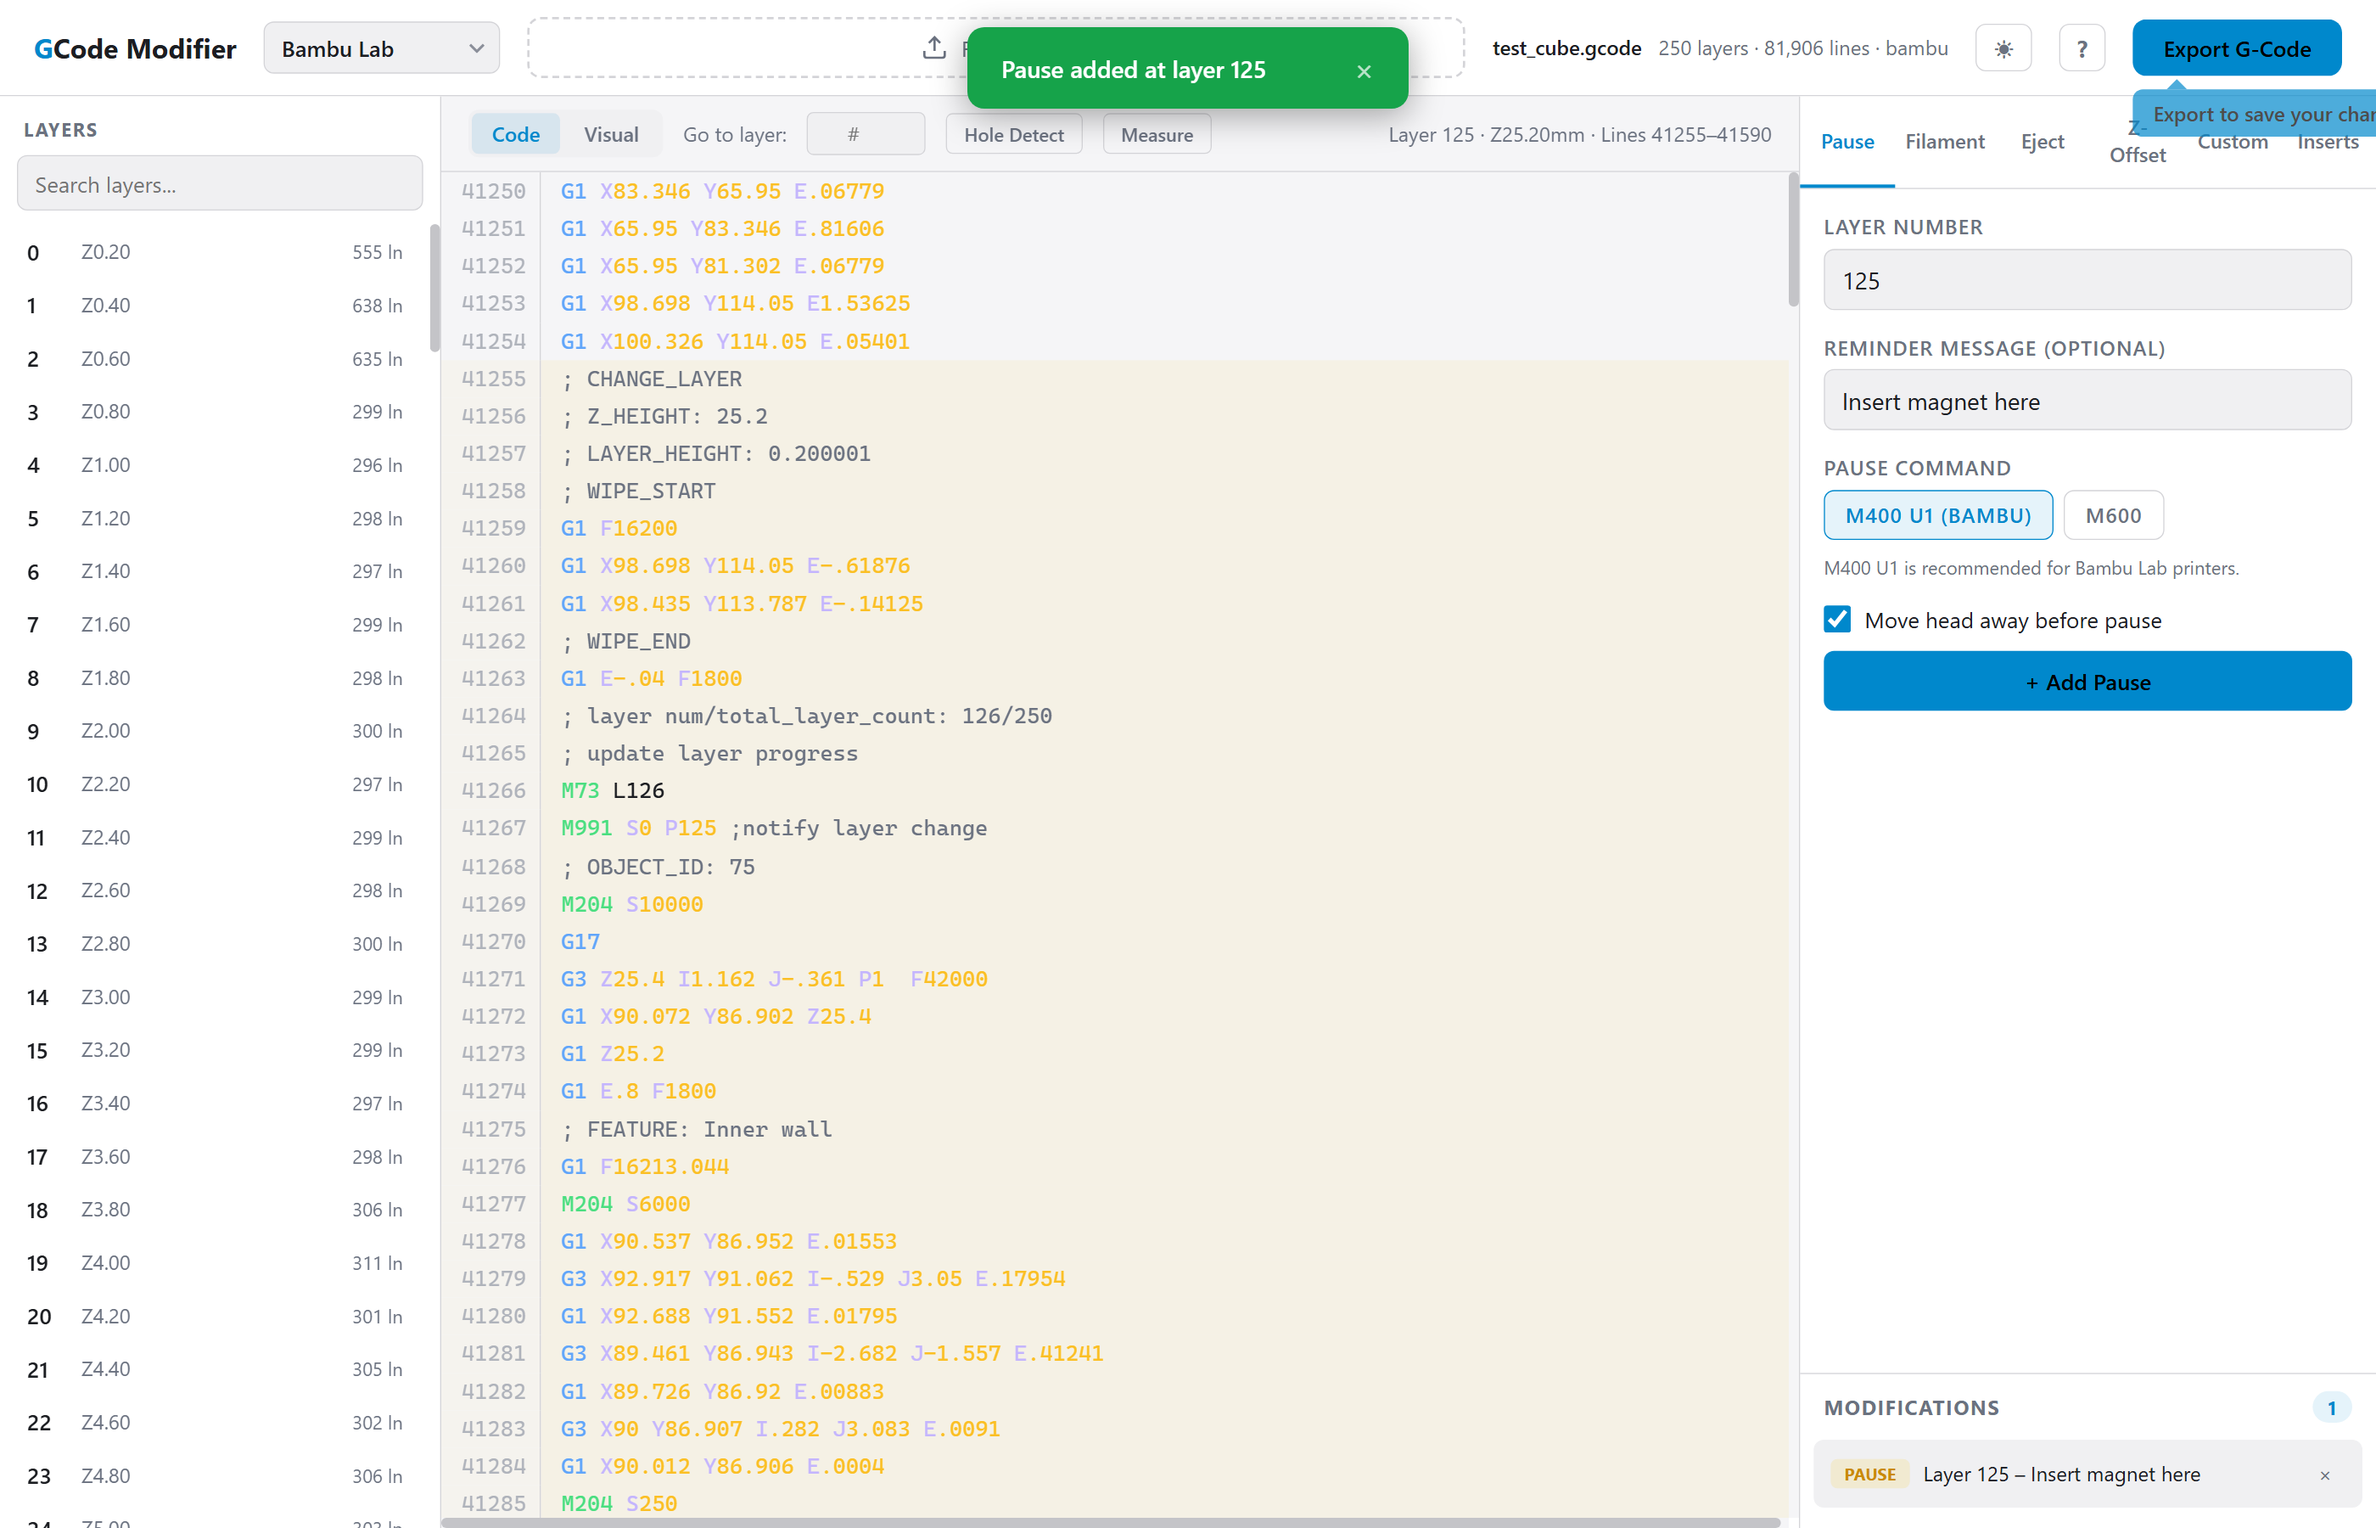
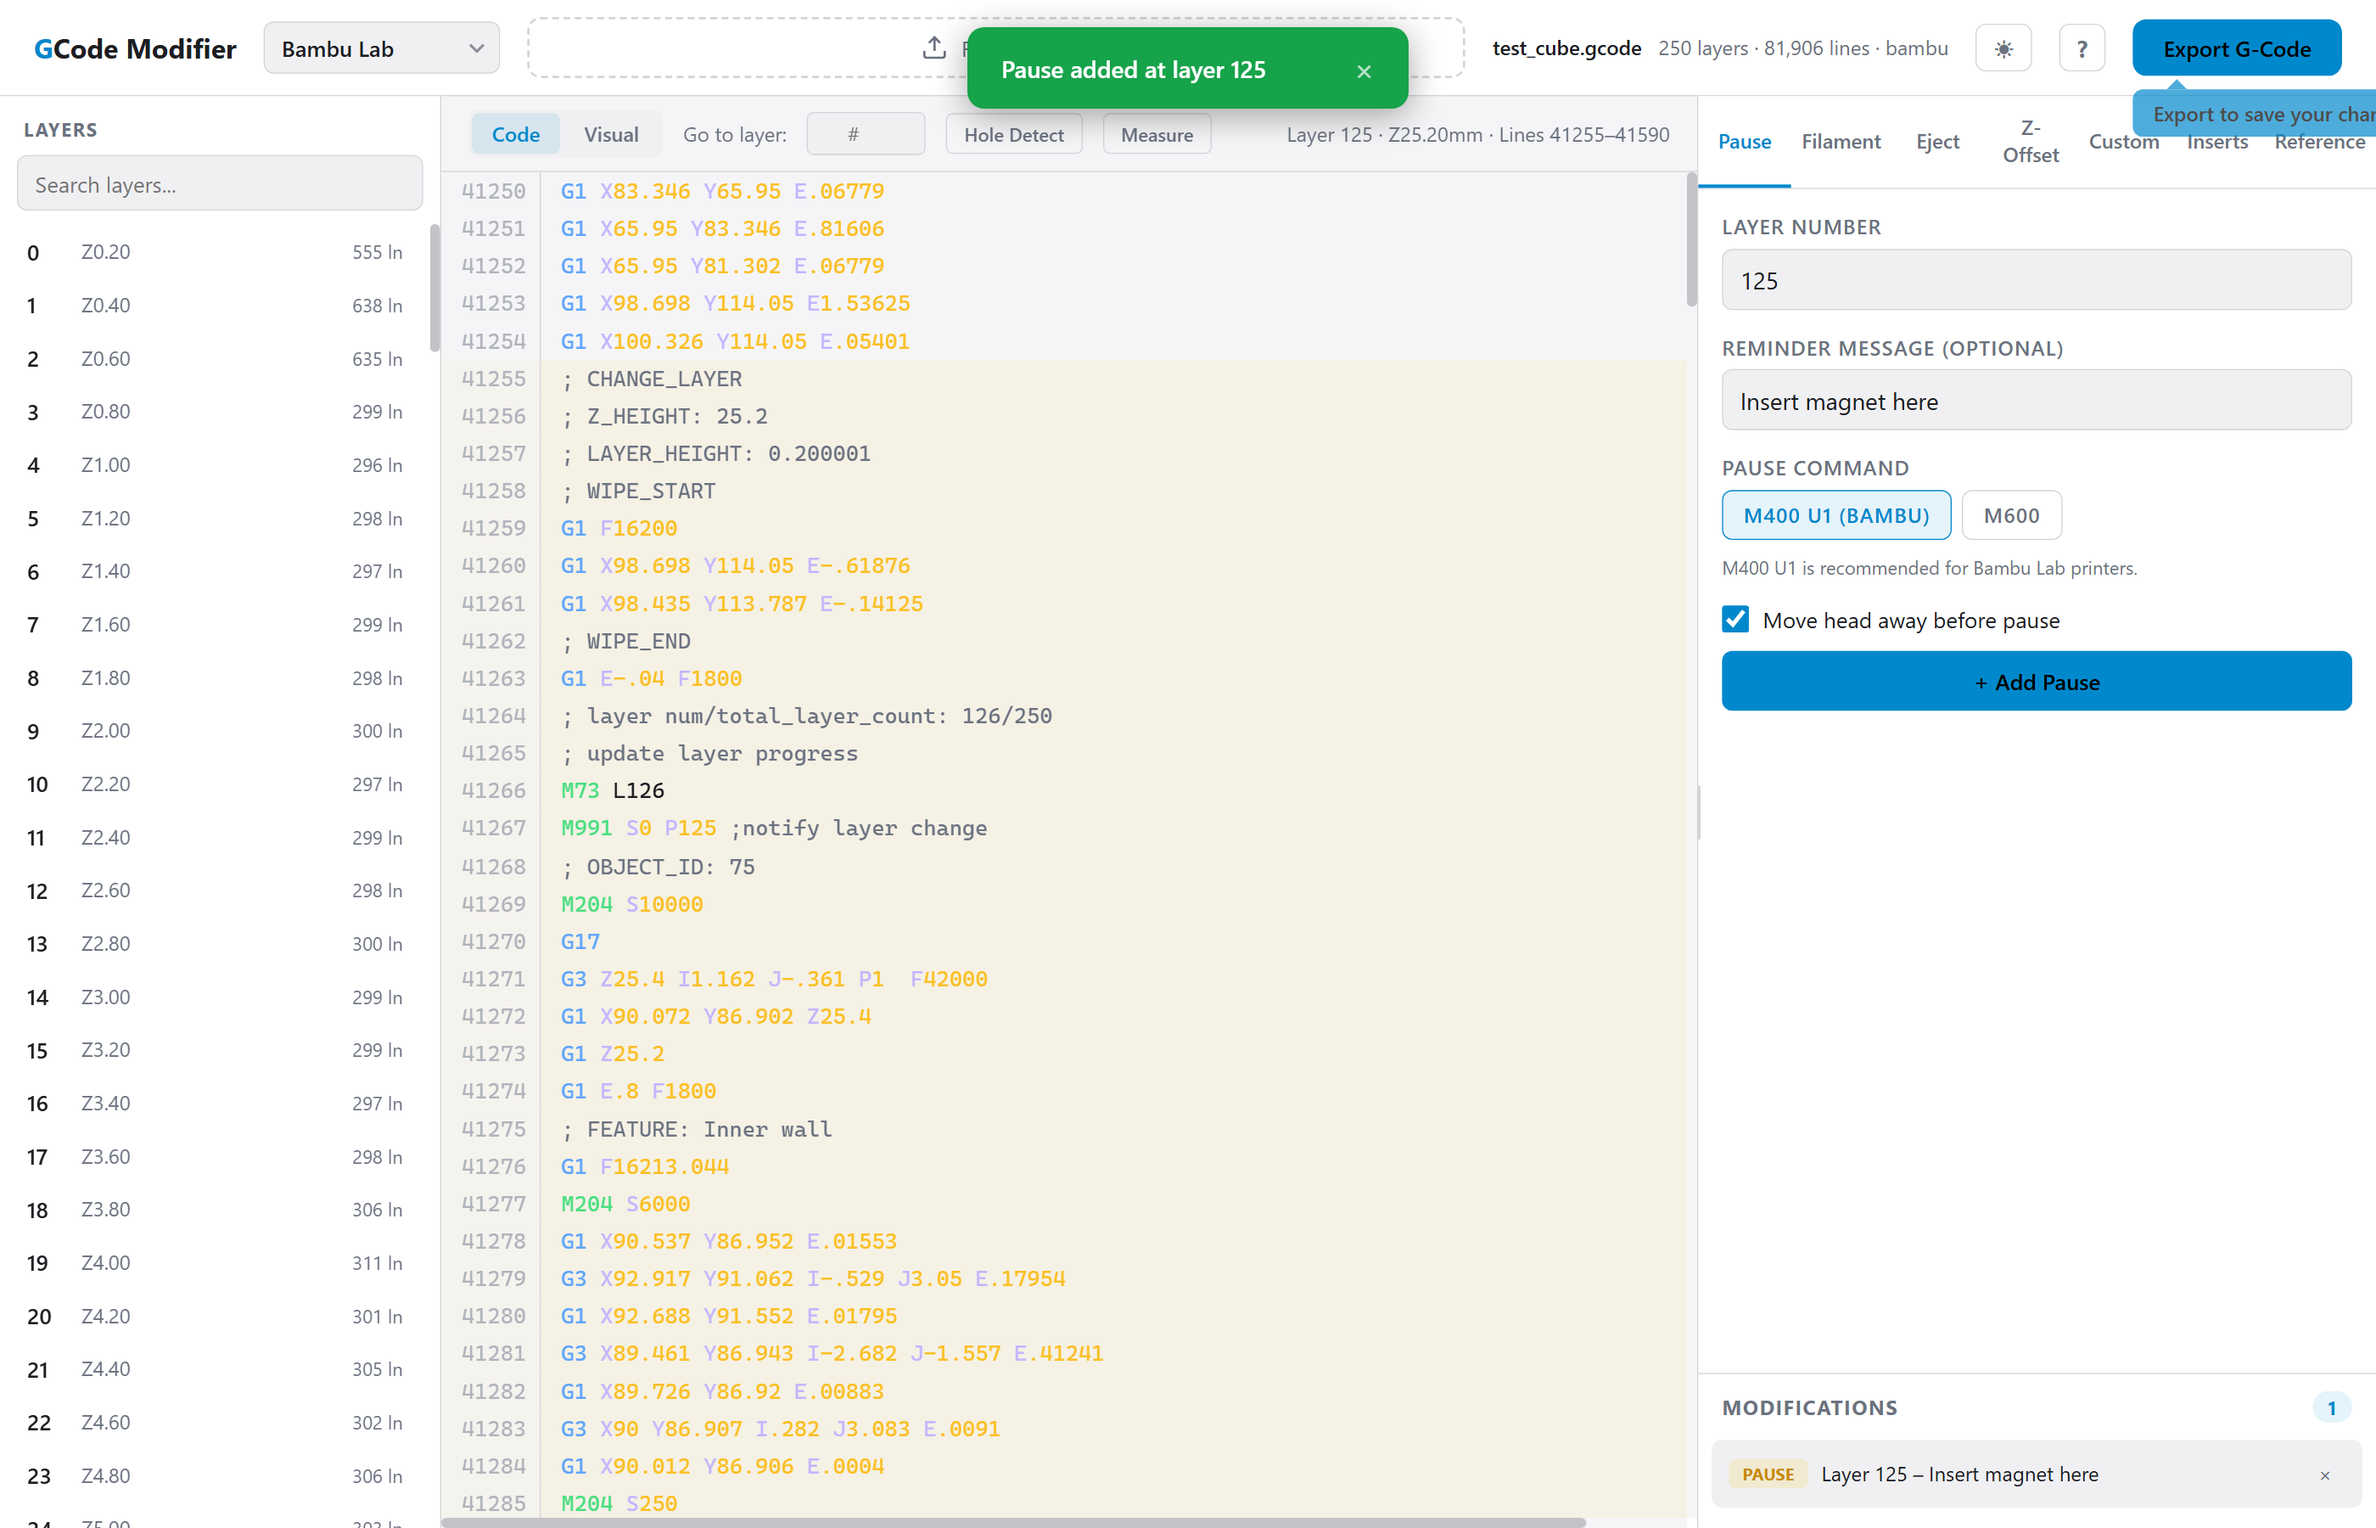
updating readme with screenshots and update to reference tab

diff --git a/README.md b/README.md
@@ -17,7 +17,7 @@ A sample file (`test_cube.gcode`) is included in the repository so you can try t
 
 ## Interface Layout
 
-The app uses a three-panel layout: layer navigator on the left, code/visual preview in the center, and modification tools on the right. On mobile (< 800px), the layout switches to a vertical stack with a collapsible layer drawer.
+The app uses a three-panel layout: layer navigator on the left, code/visual preview in the center, and modification tools on the right. The right panel can be resized by dragging its left edge — useful for expanding the Reference tab for easier reading. On mobile (< 800px), the layout switches to a vertical stack with a collapsible layer drawer.
 
 ![Interface Layout](screenshots/04-modification-added.png)
 
@@ -150,13 +150,17 @@ Insert arbitrary G-code at a specific layer or at the end of the file.
 
 ### G-Code Reference
 
-A built-in reference for ~40 common 3D printing G-code commands, organized by category and adapted to your selected firmware.
+A built-in reference for ~40 common 3D printing G-code commands, organized by category and adapted to your selected firmware. Each command card includes a beginner-friendly description, a parameter table with units and typical values, real-world multi-line examples, and firmware-specific notes.
+
+![Reference Tab](screenshots/12-reference-tab.png)
 
 - **Search**: Type in the search box to filter commands by code, name, or description.
 - **Categories**: Movement, Temperature, Extrusion, Print Control, Calibration & Leveling, Stepper & Motion, Filament & Material, Display & Communication, PID & Advanced.
 - **Firmware notes**: Each command shows firmware-specific tips and warnings based on the firmware selected in the header dropdown.
 - **Click to insert**: Click the "Insert" button on any command to populate the Custom G-code tab with that command's template, ready to customize and add as a modification.
 - **Keyboard shortcut**: Press `7` to switch to the Reference tab.
+
+![Reference Tab Search](screenshots/13-reference-search.png)
 
 ### Inserts (Hole Detection)
 
